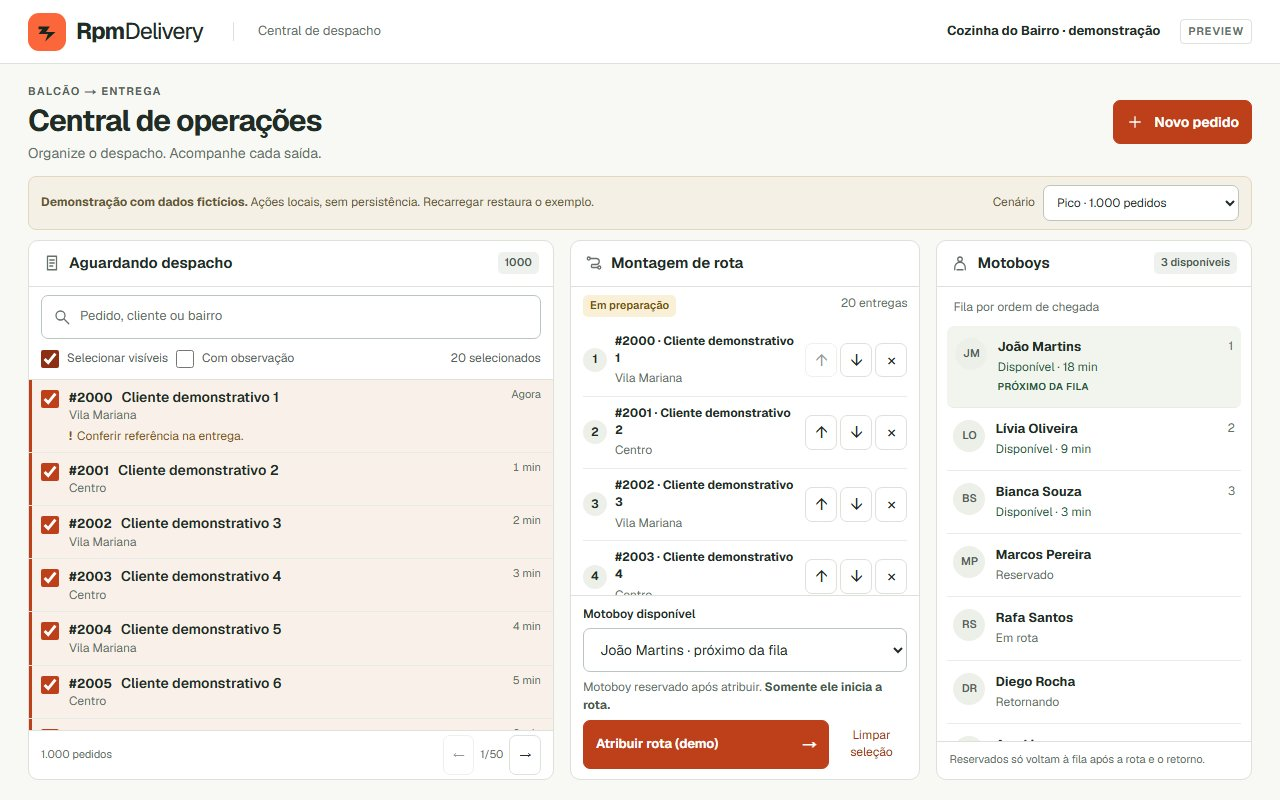
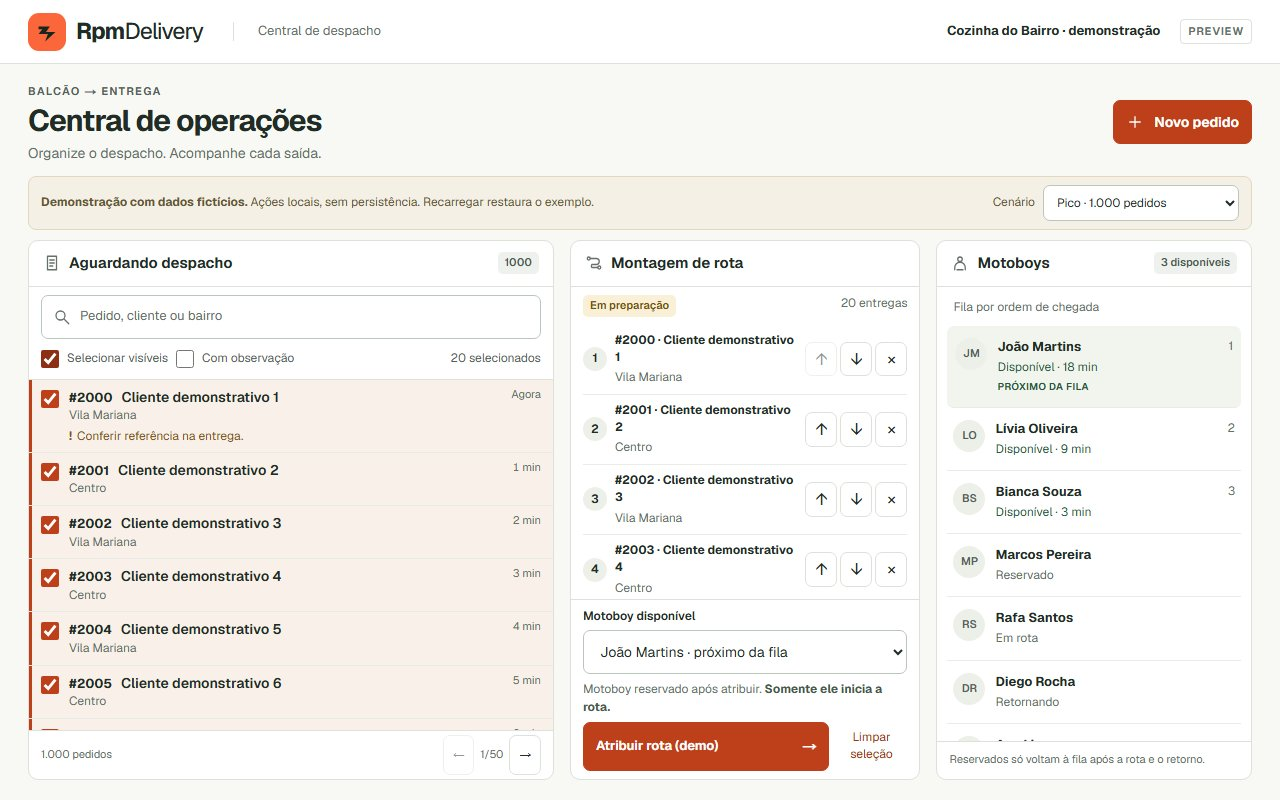
fix: preserve route density across environments

diff --git a/tests/e2e/operations.spec.ts b/tests/e2e/operations.spec.ts
@@ -12,6 +12,8 @@ test("pico preserva área útil no desktop e atribuição acessível no mobile",
   for (const [width, height] of [[1280, 800], [1440, 900], [390, 844]]) {
     await page.setViewportSize({ width, height });
     await page.goto("/preview/operacao?scenario=busy");
+    // Fontes locais precisam estar prontas antes de medir a geometria das linhas.
+    await page.evaluate(() => document.fonts.ready.then(() => undefined));
     await page.getByRole("checkbox", { name: "Selecionar visíveis", exact: true }).check();
     const completeRows = async (selector: string) => page.locator(selector).evaluateAll((rows) => {
       const list = rows[0].closest(".ops-panel-scroll")!.getBoundingClientRect();

diff --git a/features/operations/operations.css b/features/operations/operations.css
@@ -446,7 +446,7 @@
   flex-wrap: wrap;
   align-items: start;
   gap: 8px;
-  padding: 8px 0;
+  padding: 7px 0;
   border-bottom: 1px solid #e9ece6;
 }
 .ops-stop-number {
@@ -486,7 +486,7 @@
   font-size: 17px;
 }
 .ops-builder-actions {
-  padding: 10px 12px;
+  padding: 8px 12px;
   border-top: 1px solid var(--line);
 }
 .ops-builder-actions label {

diff --git a/docs/operations-density-review.md b/docs/operations-density-review.md
@@ -6,9 +6,9 @@ Uma linha completa inclui todos os seus textos e controles, dentro da lista **e*
 
 | Viewport | Pedidos antes → depois | Paradas antes → depois | Área visível de pedidos (px) | Área visível de paradas (px) |
 | --- | --- | --- | --- | --- |
-| 1280×800 | 2 → 6 | 0 → 3 | 168 → 350 | 92 → 271 |
-| 1440×900 | 2 → 8 | 1 → 7 | 196 → 450 | 138 → 389 |
-| 390×844, abas separadas | 1 → 4 | 2 → 3 | 130 → 255 | 250 → 232 |
+| 1280×800 | 2 → 6 | 0 → 3 | 168 → 350 | 92 → 275 |
+| 1440×900 | 2 → 8 | 1 → 7 | 196 → 450 | 138 → 393 |
+| 390×844, abas separadas | 1 → 4 | 2 → 3 | 130 → 255 | 250 → 236 |
 
 No mobile, a área de paradas é ligeiramente menor porque agora o seletor e a atribuição permanecem visíveis junto à lista, sem precisar passar pelas 20 paradas. A densidade das linhas ainda permite mais paradas completas. Em telas baixas e com mensagens longas, a página continua rolável; não há elementos sobrepostos.
 
@@ -49,6 +49,7 @@ Medições brutas: `screenshots/density/before-measurements.json` e `after-measu
 
 - Skills: `emil-design-eng`, `mobile-native`, `break-ui`, `rpmdelivery-qa`, com revisão React dos componentes alterados.
 - E2E protege ganho mínimo de densidade, atribuição no viewport mobile, alvos de toque ≥44×44px, ausência de rolagem horizontal em 320/390px, reordenação por teclado, rodapé condicional, nomes e códigos longos.
+- A medição E2E aguarda `document.fonts.ready`. Linhas e rodapé mantêm margem adicional após a primeira execução Linux mostrar a terceira parada cortada, sem reduzir o mínimo exigido de três paradas completas.
 - Cenários existentes preservados: vazio, um pedido, pico de 1.000, nomes extensos, identificador longo, CJK/árabe, notas de alergia e HTML literal. Campos mantêm os limites e fixtures anteriores; nenhuma informação é apagada para ganhar espaço.
 - O fluxo completo continua coberto: PREPARING/reserva, edição, início manual pelo motoboy, ON_ROUTE bloqueado, ocorrência, RETURNING e retorno ao fim da fila. Nenhuma regra do reducer mudou.
 - Navegador integrado: desktop/mobile, seleção e reserva, teclado, textos longos e fallback 320px; console e rede sem erros inesperados na captura.
